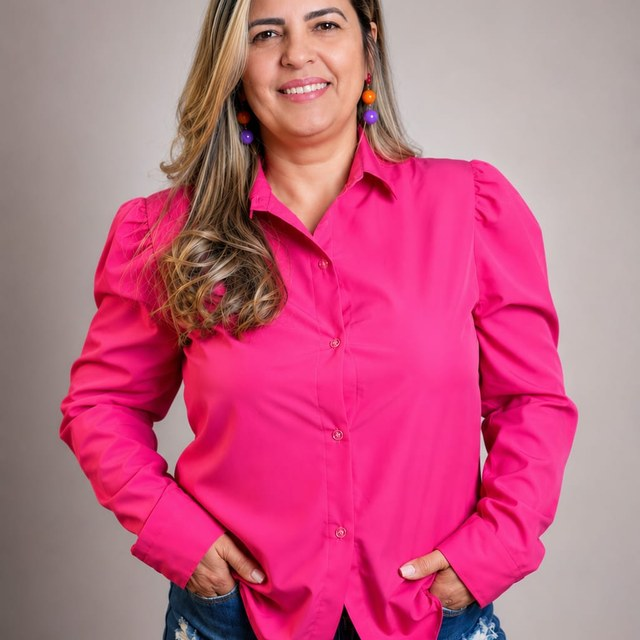
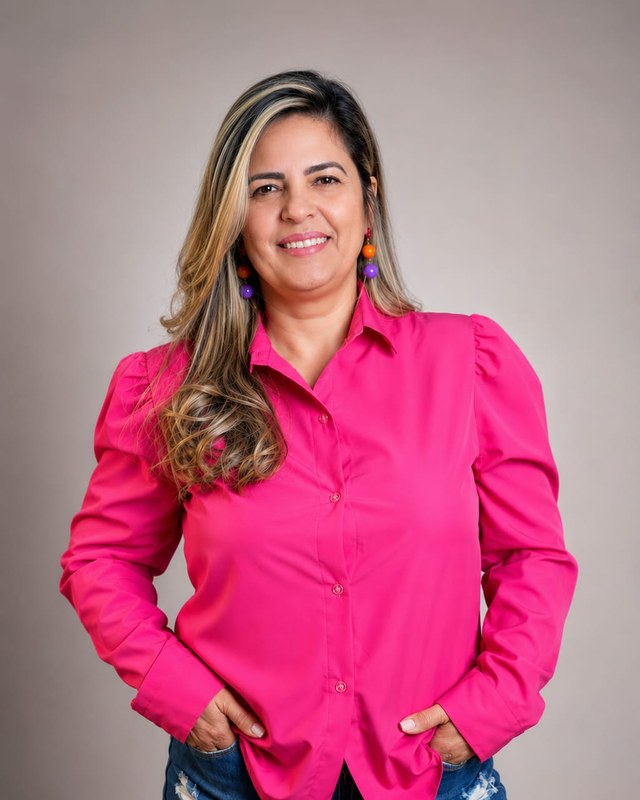
Fundadora: foto em retrato sem cortar o rosto

diff --git a/index.html b/index.html
@@ -16,7 +16,7 @@
   <link rel="preconnect" href="https://fonts.googleapis.com" />
   <link rel="preconnect" href="https://fonts.gstatic.com" crossorigin />
   <link href="https://fonts.googleapis.com/css2?family=Caveat:wght@600;700&family=Poppins:wght@500;600;700;800&family=Nunito:wght@400;500;600;700;800&display=swap" rel="stylesheet" />
-  <link rel="stylesheet" href="styles.css?v=12" />
+  <link rel="stylesheet" href="styles.css?v=13" />
 </head>
 <body>
   <a href="#inicio" class="skip-link">Pular para o conteúdo</a>
@@ -271,7 +271,7 @@
   <section class="section" id="fundadora">
     <div class="container fundadora reveal">
       <div class="fundadora__foto">
-        <img src="assets/fotos/equipe/cristiane.jpg" alt="Cristiane Gomes Arantes, fundadora da TEA Encantar" />
+        <img src="assets/fotos/equipe/cristiane.jpg?v=2" alt="Cristiane Gomes Arantes, fundadora da TEA Encantar" />
       </div>
       <div class="fundadora__texto">
         <p class="section__eyebrow">À frente da TEA Encantar</p>

diff --git a/styles.css b/styles.css
@@ -507,7 +507,7 @@ img { max-width: 100%; }
 /* Fundadora */
 .fundadora { display: grid; grid-template-columns: 320px 1fr; gap: 46px; align-items: center; }
 .fundadora__foto { border-radius: 24px; padding: 6px; background: var(--grad-rainbow); box-shadow: var(--shadow); }
-.fundadora__foto img { width: 100%; aspect-ratio: 1 / 1; object-fit: cover; border-radius: 18px; display: block; border: 4px solid #fff; }
+.fundadora__foto img { width: 100%; height: auto; border-radius: 18px; display: block; border: 4px solid #fff; }
 .fundadora h2 { margin-top: 6px; }
 .fundadora__cargo { color: var(--magenta); font-weight: 800; margin: 6px 0 0; font-size: 1.05rem; }
 .fundadora__msg { color: var(--muted); margin: 14px 0 0; font-size: 1.05rem; line-height: 1.75; }